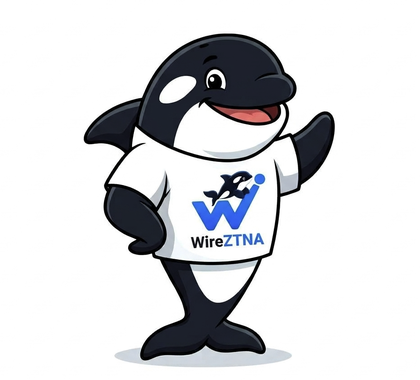
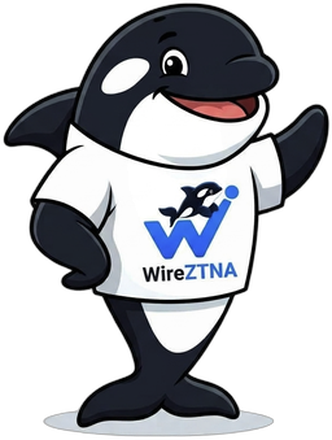
docs: name the mascot Zeta the orca, add mascot doc, transparent art

diff --git a/docs/mascot.md b/docs/mascot.md
@@ -1,0 +1,47 @@
+# Zeta the orca — the WireZTNA mascot
+
+<div align="center">
+<img src="../.github/assets/wireztna-mascot.png" alt="Zeta the orca — WireZTNA mascot" width="220" />
+</div>
+
+Meet **Zeta**, the orca that represents WireZTNA.
+
+## Why an orca?
+
+An orca is a fitting symbol for a Zero Trust Network Access project:
+
+- **Smart and coordinated.** Orcas hunt in tightly organised pods where every
+  member has a role — a natural fit for the WireZTNA access model of
+  *User → Group → Publisher → exposed resources*.
+- **In control of its waters.** As an apex predator, nothing moves through its
+  territory unnoticed. That is exactly what a ZTNA perimeter does: every
+  connection is explicit, authorised, and accounted for.
+- **Friendly, not threatening.** Zeta is on *your* side. WireZTNA guards your
+  private resources so you can grant precise, per-user access with confidence.
+
+## Why "Zeta"?
+
+The name comes from **ZTNA** (Zero Trust Network Access). "Zeta" keeps the
+nod to the acronym while being short, easy to pronounce in any language, and
+memorable as a character name.
+
+## Release codenames
+
+WireZTNA releases are named after marine creatures, in the spirit of projects
+like Debian (Toy Story characters) and Ubuntu (animals). The first release
+sets the tone:
+
+| Version | Codename |
+| ------- | -------- |
+| v1.0.5  | Orca     |
+
+Future releases will continue the marine theme.
+
+## Using the mascot
+
+Zeta's artwork lives at [`.github/assets/wireztna-mascot.png`](../.github/assets/wireztna-mascot.png)
+(transparent PNG). The project logo lives at
+[`.github/assets/wireztna-logo.png`](../.github/assets/wireztna-logo.png).
+
+Please keep Zeta friendly: use the mascot to welcome contributors and users,
+not in ways that misrepresent the project or its security posture.

diff --git a/README.md b/README.md
@@ -154,7 +154,9 @@ wzctl connect  --broker http://<YOUR_PUBLIC_IP> --publisher <id> --target 10.0.0
 ## Contributing
 
 <div align="center">
-<img src=".github/assets/wireztna-mascot.png" alt="WireZTNA mascot — Orca" width="200" />
+<img src=".github/assets/wireztna-mascot.png" alt="Zeta the orca — WireZTNA mascot" width="200" />
+<br/>
+<sub>Meet <strong>Zeta the orca</strong>, the WireZTNA mascot — <a href="docs/mascot.md">learn more</a>.</sub>
 </div>
 
 Contributions are welcome — see [CONTRIBUTING.md](CONTRIBUTING.md). Join the
